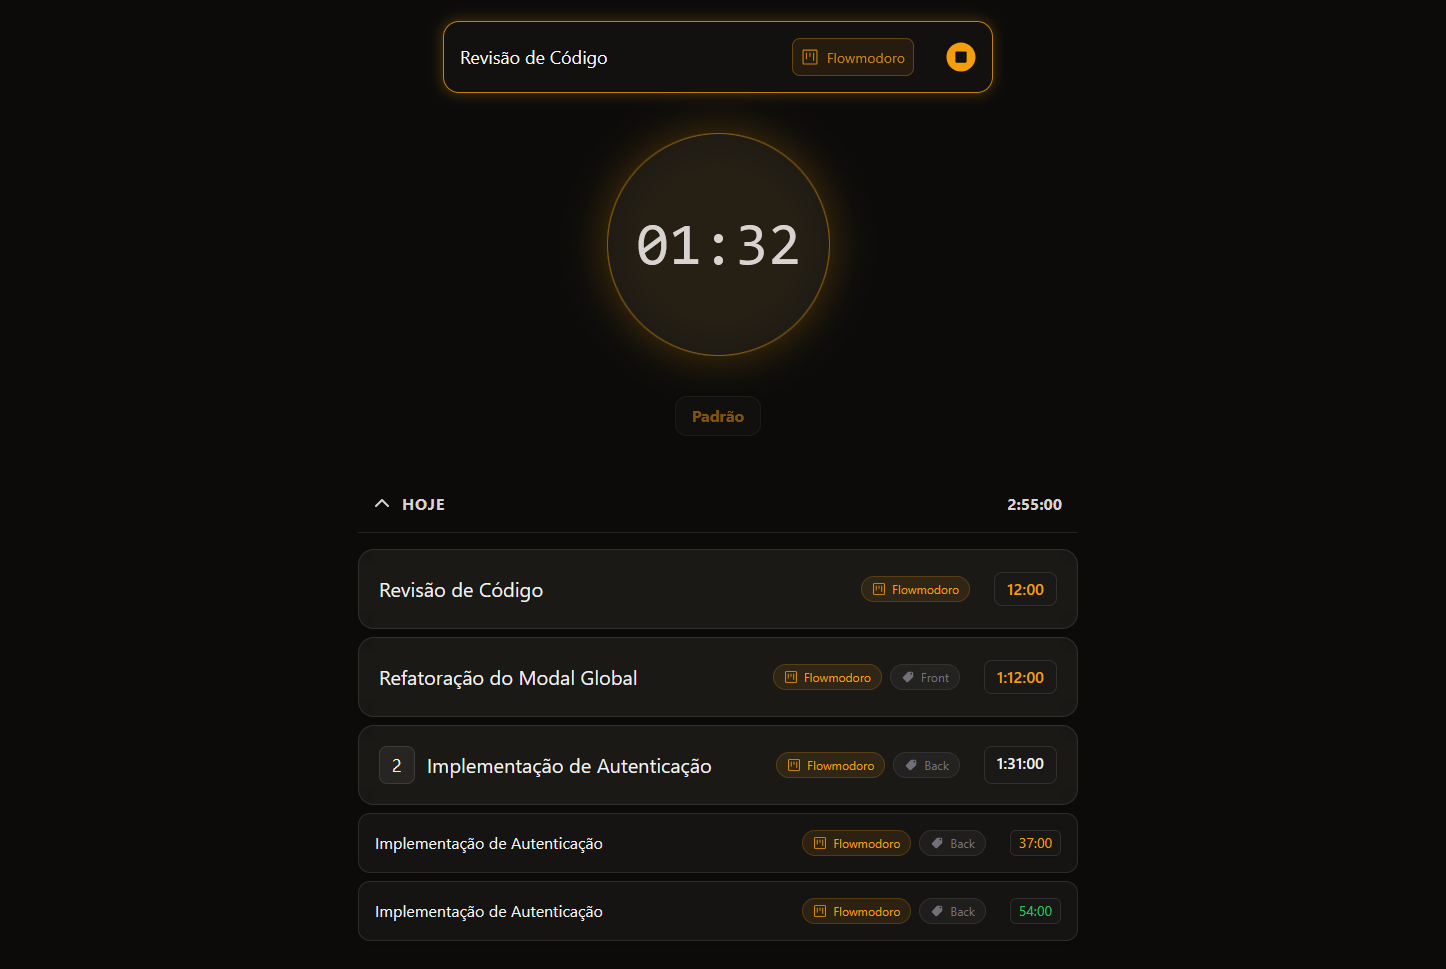
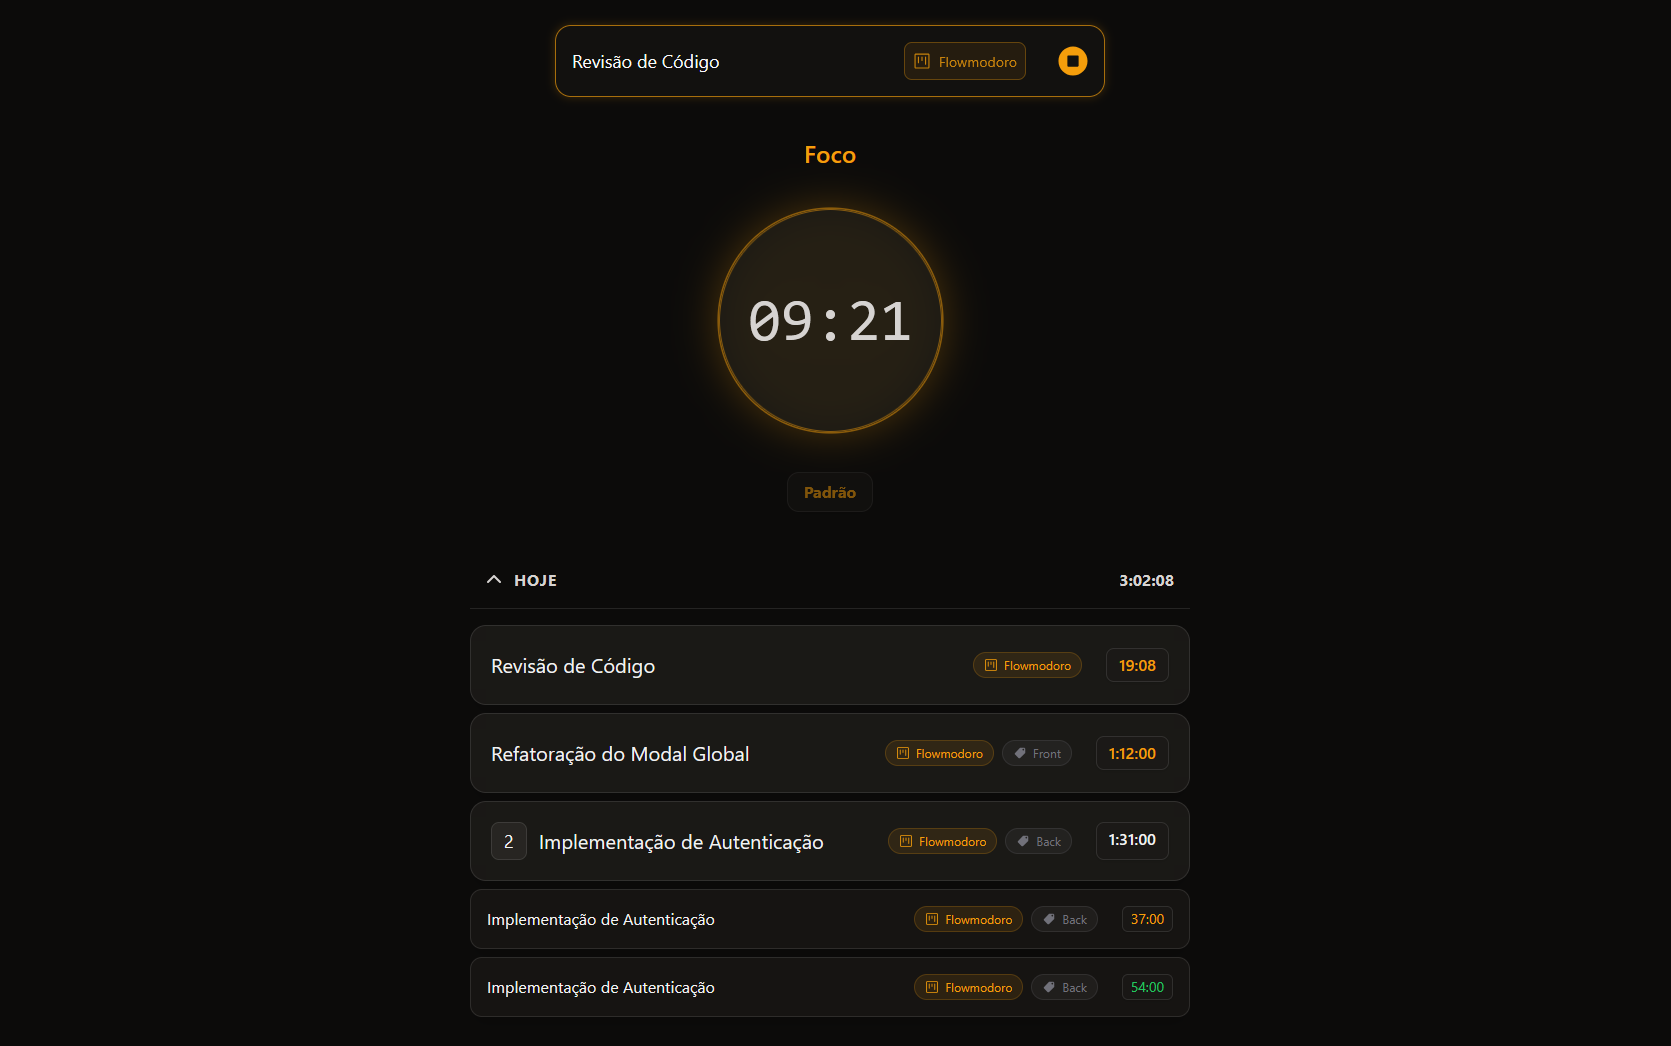
docs(readme): update layout image and add project and tag documentation

diff --git a/README.md b/README.md
@@ -33,15 +33,15 @@ Quando o usuário inicia o descanso calculado pelo app, ele pode:
 - esperar até o término (uma notificação será enviada ao finalizar);
 - ou pular a pausa e iniciar uma nova sessão.
 
-### Gestão de Tarefas
+### Gestão de Projetos e Tags
 
-A aplicação conta com uma barra lateral (*sidebar*) à direita para o gerenciamento de tarefas.
+A aplicação conta com uma barra lateral (*sidebar*) à direita para gerenciar projetos e tags, que podem ser atribuídos às sessões de forma opcional.
 
 Nela é possível:
 
-- Criar novas tarefas;
-- Editar e excluir tarefas existentes;
-- Iniciar o *tracking* de uma tarefa ao clicar no botão de *play*.
+- Criar novos projetos e suas respectivas tags (as tags são exclusivas de cada projeto);
+- Editar e excluir projetos e tags;
+- Visualizar o tempo total acumulado por projeto e por tag ao longo do tempo, conforme são utilizados nas sessões.
 
 ### Histórico de Sessões
 
